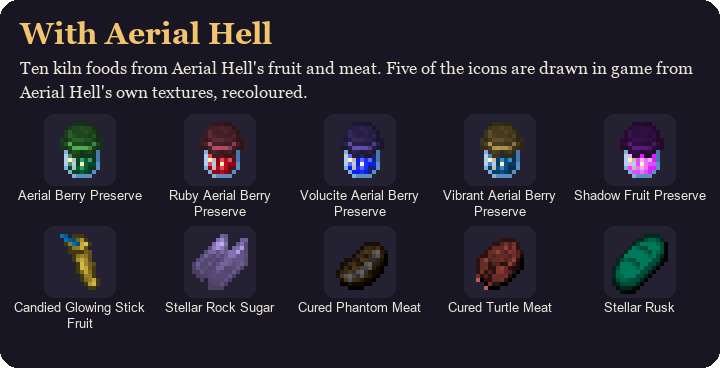
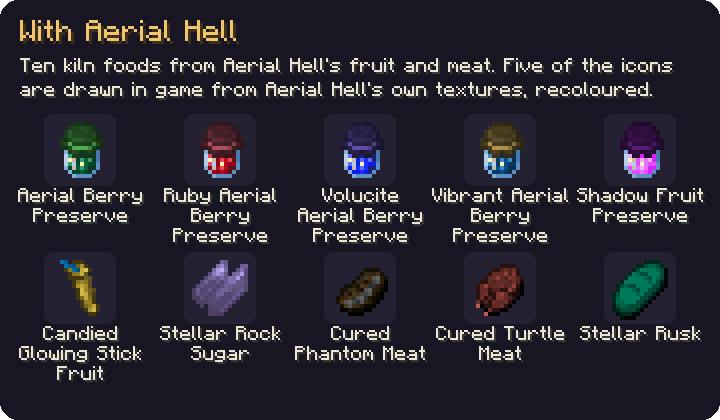
Slowlight feature panels: Minecraft font

Changed region(s): [[0.0, 0.0299, 0.9778, 0.5978], [0.0, 0.5978, 0.9778, 0.9266]]

diff --git a/tools/slowlight_description.py b/tools/slowlight_description.py
@@ -9,8 +9,9 @@ and index.md, listing each file with its GitHub Pages and raw GitHub links. Re-r
 """
 import json
 import os
+import zipfile
 
-from PIL import Image, ImageDraw, ImageFont
+from PIL import Image, ImageDraw
 
 import wiki_images as wi
 from wiki_images import mr
@@ -45,12 +46,46 @@ PAGES = "https://oculifelis.github.io/mod-wiki/description/slowlight/"
 RAW = "https://raw.githubusercontent.com/Oculifelis/mod-wiki/main/docs/description/slowlight/"
 
 BG, PANEL, TEXT, DIM, ACCENT = (24, 22, 34, 255), (36, 33, 50, 255), (236, 230, 214), (170, 162, 150), (242, 196, 110)
-FONT = "C:/Windows/Fonts/"
 WIDTH, PAD = 720, 20
 
 
-def font(name, size):
-    return ImageFont.truetype(FONT + name, size)
+class McFont:
+    """Minecraft's own text: the 8x8 glyphs of the client jar's font/ascii.png, widths measured the way the game does
+    (last lit column + 1, one pixel gap, space 4), scaled by a whole number, with the game's drop shadow."""
+    sheet = None
+
+    def __init__(self, scale):
+        if McFont.sheet is None:
+            with zipfile.ZipFile(os.path.join(wi.JARS, JAR)) as z:
+                with z.open("assets/minecraft/textures/font/ascii.png") as f:
+                    McFont.sheet = Image.open(f).convert("RGBA")
+        self.k = scale
+
+    def glyph(self, ch):
+        n = ord(ch)
+        if ch == " " or n > 255:
+            return None, 4
+        g = McFont.sheet.crop((n % 16 * 8, n // 16 * 8, n % 16 * 8 + 8, n // 16 * 8 + 8))
+        a = g.getchannel("A")
+        cols = [x for x in range(8) if any(a.getpixel((x, y)) for y in range(8))]
+        return g, (cols[-1] + 2 if cols else 4)
+
+    def length(self, text):
+        return sum(self.glyph(c)[1] for c in text) * self.k - self.k
+
+    def draw(self, im, xy, text, fill, anchor="la"):
+        x, y = xy
+        if anchor == "ma":
+            x -= self.length(text) / 2
+        x, y = round(x), round(y)
+        shade = tuple(c // 4 for c in fill[:3])
+        for c in text:
+            g, adv = self.glyph(c)
+            if g is not None:
+                mask = g.getchannel("A").resize((8 * self.k, 8 * self.k), Image.NEAREST)
+                im.paste(Image.new("RGBA", mask.size, shade + (255,)), (x + self.k, y + self.k), mask)
+                im.paste(Image.new("RGBA", mask.size, tuple(fill[:3]) + (255,)), (x, y), mask)
+            x += adv * self.k
 
 
 def name(item):
@@ -78,7 +113,7 @@ def wrap(d, text, f, width):
     lines, line = [], ""
     for word in text.split():
         trial = (line + " " + word).strip()
-        if d.textlength(trial, font=f) <= width or not line:
+        if f.length(trial) <= width or not line:
             line = trial
         else:
             lines.append(line)
@@ -88,7 +123,7 @@ def wrap(d, text, f, width):
 
 def panel(title, blurb, rows, shot=None, caption=None):
     """rows: (heading or None, icon px, [(thing, label or None)], optional columns) in centred rows across the panel."""
-    tf, bf, lf, hf = font("georgiab.ttf", 30), font("georgia.ttf", 17), font("arial.ttf", 13), font("arialbd.ttf", 14)
+    tf, bf, lf, hf = McFont(3), McFont(2), McFont(2), McFont(2)
     scratch = ImageDraw.Draw(Image.new("RGBA", (1, 1)))
     inner = WIDTH - 2 * PAD
     blurb_lines = wrap(scratch, blurb, bf, inner)
@@ -96,11 +131,13 @@ def panel(title, blurb, rows, shot=None, caption=None):
     for heading, px, things, *cols in rows:
         labelled = any(label for _, label in things)
         pitch = px + (36 if labelled and px < 100 else 24 if labelled else 12)
+        if labelled:
+            pitch = max(pitch, max(lf.length(w) for _, label in things if label for w in label.split()) + 8)
         per_row = cols[0] if cols else max(1, (inner + pitch - px) // pitch)
         if cols and labelled:  # spread a labelled row across the panel so long names fit on two lines
             pitch = max(pitch, (inner + 24) // cols[0])
-        lines = 2 if labelled else 0
-        cell_h = px + (16 + 16 * lines if labelled else 8)
+        lines = max(len(wrap(scratch, label, lf, pitch - 4)) for _, label in things if label) if labelled else 0
+        cell_h = px + (14 + 20 * lines if labelled else 8)
         n_rows = -(-len(things) // per_row)
         parts.append((heading, px, things, pitch, per_row, cell_h, labelled))
         h += (24 if heading else 0) + n_rows * cell_h + 10
@@ -113,15 +150,15 @@ def panel(title, blurb, rows, shot=None, caption=None):
     im = Image.new("RGBA", (WIDTH, h), (0, 0, 0, 0))
     d = ImageDraw.Draw(im)
     d.rounded_rectangle((0, 0, WIDTH - 1, h - 1), 18, fill=BG)
-    d.text((PAD, PAD - 4), title, font=tf, fill=ACCENT)
+    tf.draw(im, (PAD, PAD), title, ACCENT)
     y = PAD + 38
     for line in blurb_lines:
-        d.text((PAD, y), line, font=bf, fill=TEXT)
+        bf.draw(im, (PAD, y), line, TEXT)
         y += 24
     y += 12
     for heading, px, things, pitch, per_row, cell_h, labelled in parts:
         if heading:
-            d.text((PAD, y), heading, font=hf, fill=DIM)
+            hf.draw(im, (PAD, y), heading, DIM)
             y += 24
         for i, (thing, label) in enumerate(things):
             used = min(per_row, len(things) - i // per_row * per_row)
@@ -132,15 +169,15 @@ def panel(title, blurb, rows, shot=None, caption=None):
             im.alpha_composite(pic, (cx, cy))
             if label:
                 ly = cy + px + 6
-                for line in wrap(d, label, lf, pitch - 4)[:2]:
-                    d.text((cx + px / 2, ly), line, font=lf, fill=TEXT, anchor="ma")
-                    ly += 16
+                for line in wrap(d, label, lf, pitch - 4):
+                    lf.draw(im, (cx + px / 2, ly), line, TEXT, anchor="ma")
+                    ly += 20
         y += -(-len(things) // per_row) * cell_h + 10
     if shot:
         im.alpha_composite(im_shot, (PAD, y))
         y += im_shot.height
         if caption:
-            d.text((WIDTH / 2, y + 6), caption, font=lf, fill=DIM, anchor="ma")
+            lf.draw(im, (WIDTH / 2, y + 8), caption, DIM, anchor="ma")
     return im
 
 
